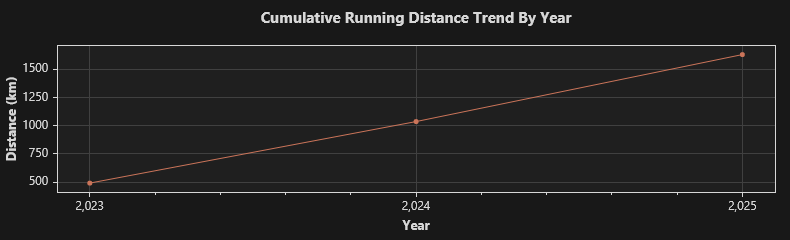
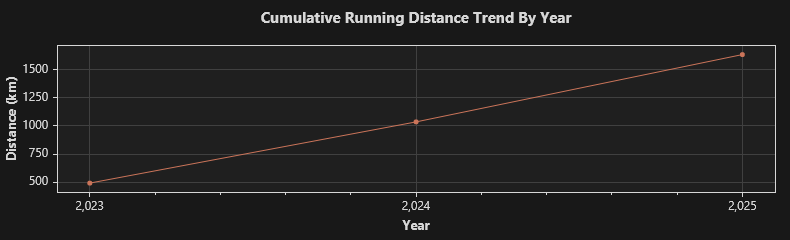
2025/11/20 跑步 6.04 公里

diff --git a/trend.md b/trend.md
@@ -1,4 +1,4 @@
-### Total: 274 days, 1630.53 km.
+### Total: 275 days, 1636.57 km.
 
 
 ![Monthly](https://github.com/prime167/MyRunningLog/blob/main/data/CumulativeTrendByMonth.png)
